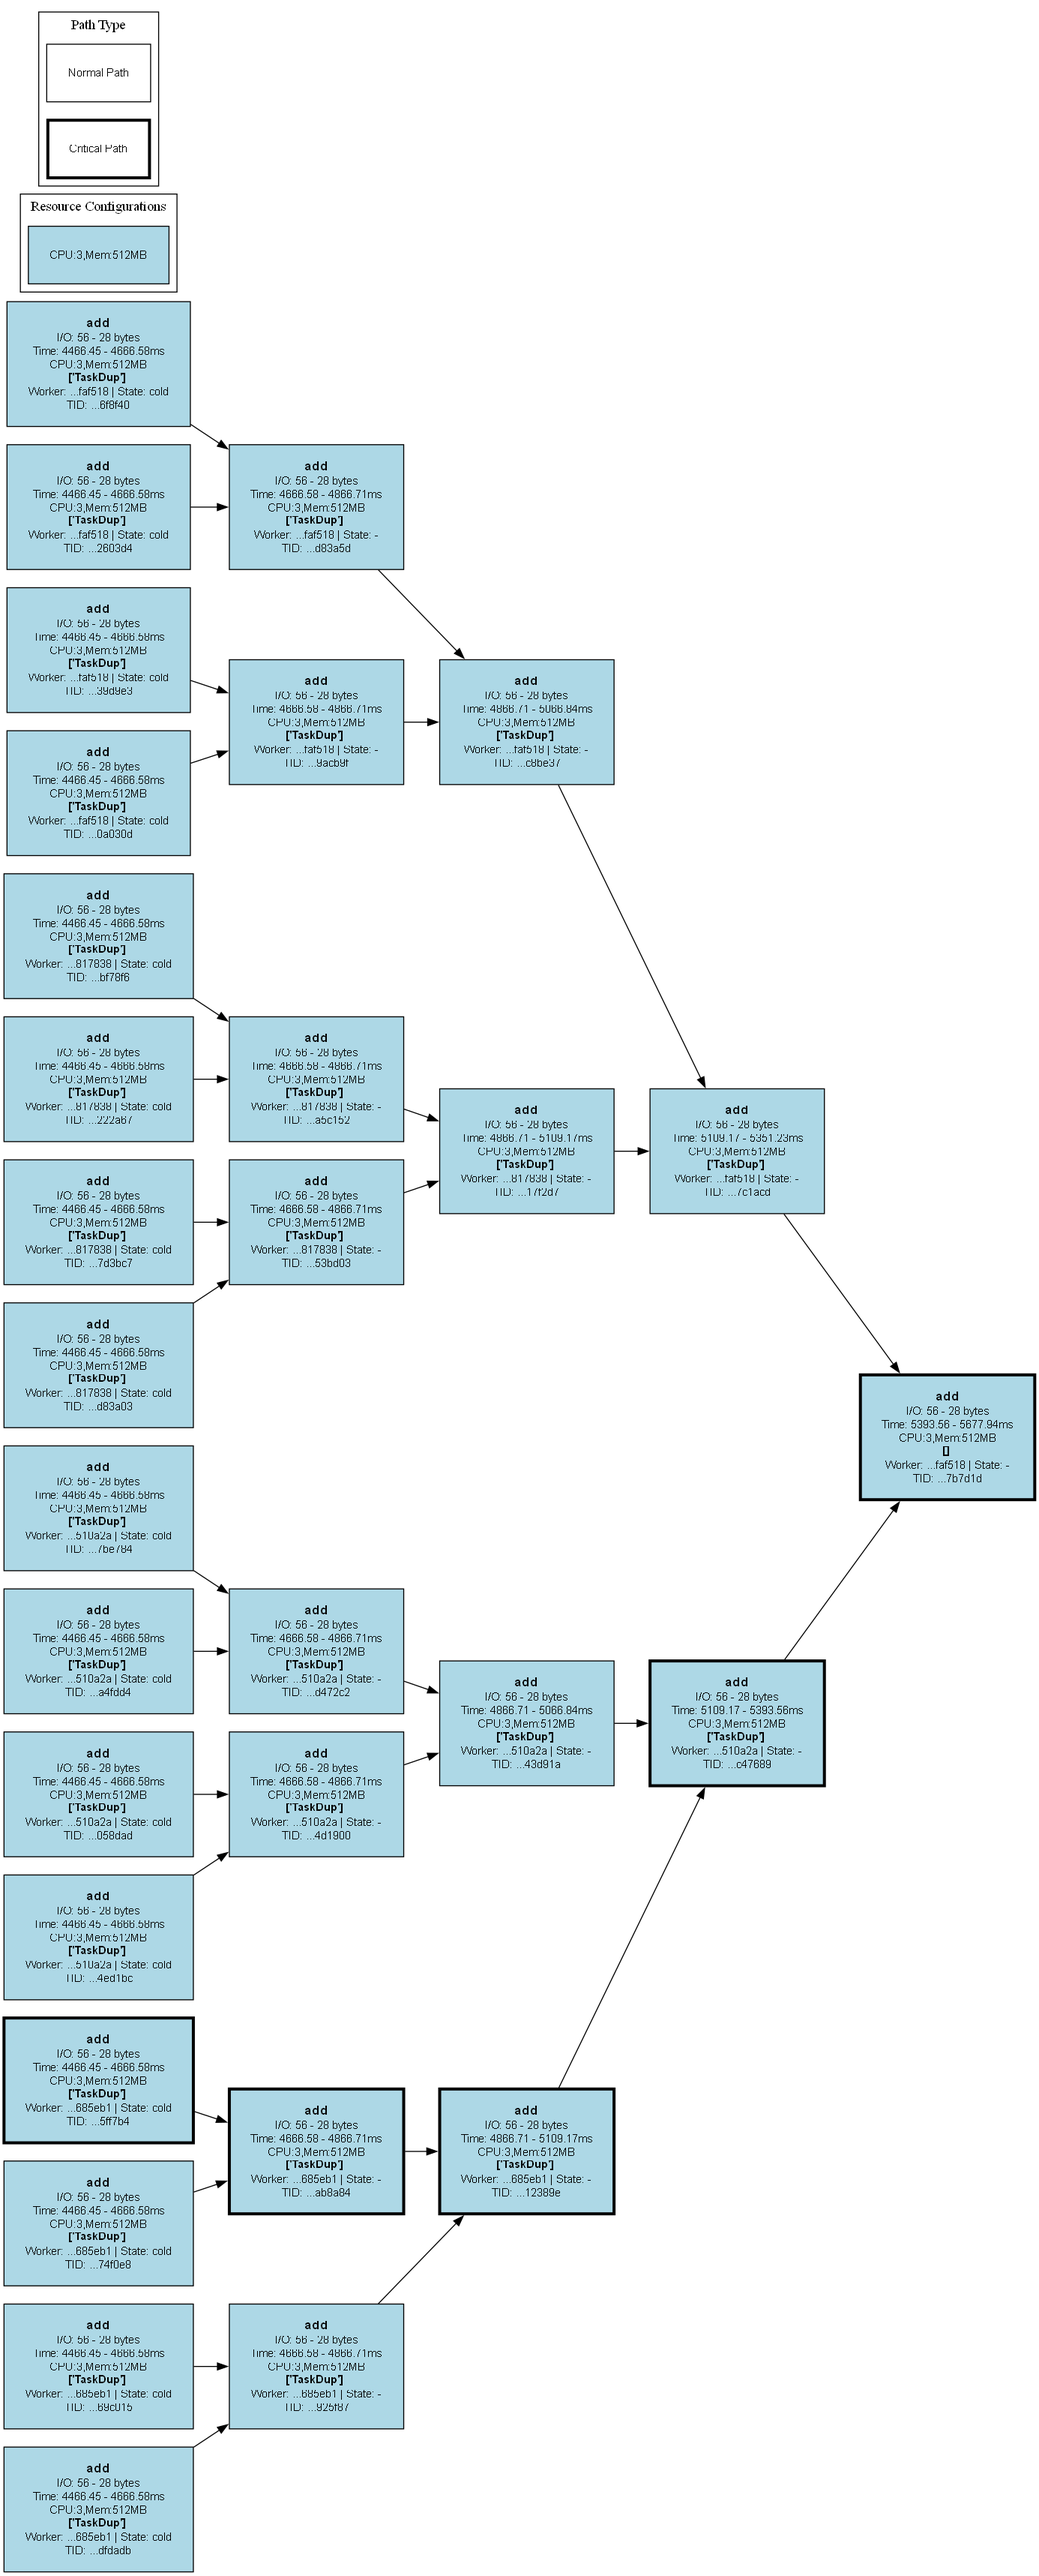
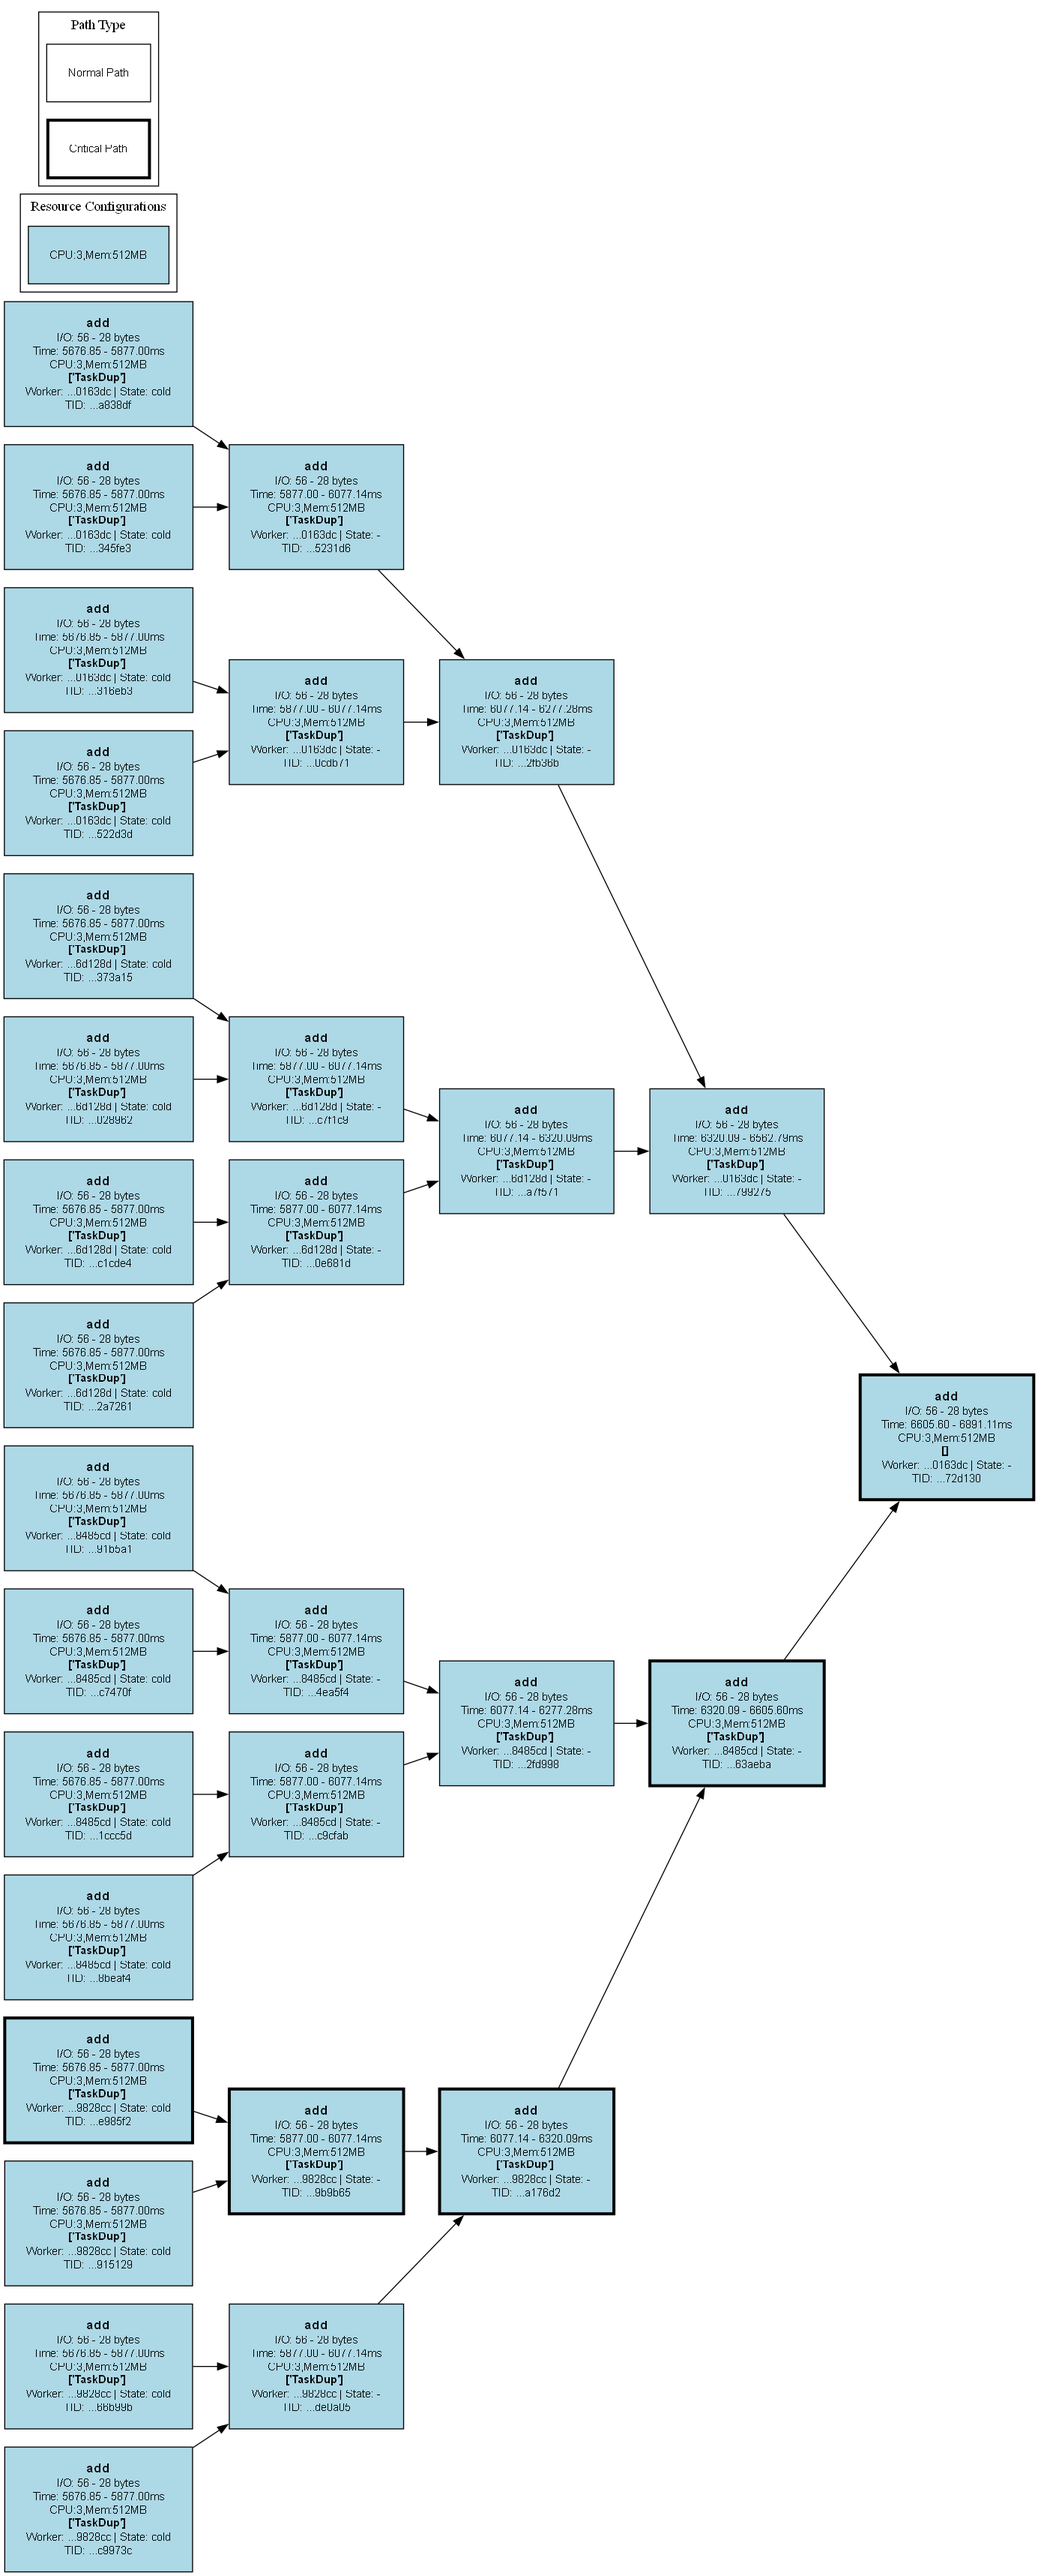
fixed runtime calculations..

diff --git a/_metadata_analysis/global_planning_analysis_dashboard.py b/_metadata_analysis/global_planning_analysis_dashboard.py
@@ -45,6 +45,7 @@ class WorkflowInstanceInfo:
     total_workers: int
     tasks: List[WorkflowInstanceTaskInfo]
     resource_usage: DAGResourceUsageMetrics
+    total_data_on_the_network_bytes: int
 
 @dataclass
 class WorkflowInfo:
@@ -129,6 +130,12 @@ def get_workflows_information(metadata_storage_conn: redis.Redis) -> tuple[List[
                 resource_usage_data: Any = metadata_storage_conn.get(resource_usage_key)
                 resource_usage: DAGResourceUsageMetrics = cloudpickle.loads(resource_usage_data)
 
+                total_data_on_the_network_bytes = 0
+                for task in tasks:
+                    for im in task.metrics.input_metrics.input_download_metrics.values():
+                        total_data_on_the_network_bytes += im.serialized_size_bytes
+                    total_data_on_the_network_bytes += task.metrics.output_metrics.serialized_size_bytes
+
                 # Update workflow_types dict
                 if dag.dag_name not in workflow_types:
                     workflow_types[dag.dag_name] = WorkflowInfo(dag.dag_name, dag, [])
@@ -142,7 +149,8 @@ def get_workflows_information(metadata_storage_conn: redis.Redis) -> tuple[List[
                         total_worker_startup_time_ms,
                         total_workers,
                         tasks,
-                        resource_usage
+                        resource_usage, 
+                        total_data_on_the_network_bytes
                     )
                 )
             except Exception as e:

diff --git a/src/docker_workers_gateway/container_resource_usage_monitor.py b/src/docker_workers_gateway/container_resource_usage_monitor.py
@@ -1,10 +1,10 @@
 import asyncio
 from collections import defaultdict
 from typing import Any, Optional, Tuple
+import time
 
 import aiohttp
 from src.storage.metadata.metrics_types import DAGResourceUsageMetrics
-from src.utils.timer import Timer
 
 DOCKER_API = "http://localhost:2375"
 SAMPLE_INTERVAL_S = 0.5
@@ -63,8 +63,7 @@ class DockerContainerUsageMonitor:
         and accumulates allocated memory*time.
         """
         data = DockerContainerUsageMonitor._dag_data[dag_id]
-        timer = Timer()
-        data["start_time"] = timer.start_time
+        data["start_time"] = time.perf_counter()
         data["memory_seconds"] = defaultdict(float)
         data["container_ids"] = set()
 
@@ -83,7 +82,7 @@ class DockerContainerUsageMonitor:
                             data["memory_seconds"][cid] += mem_limit * SAMPLE_INTERVAL_S
                 await asyncio.sleep(SAMPLE_INTERVAL_S)
 
-        data["end_time"] = timer.stop()
+        data["end_time"] = time.perf_counter()
 
     @staticmethod
     def start_monitoring(dag_id: str):
